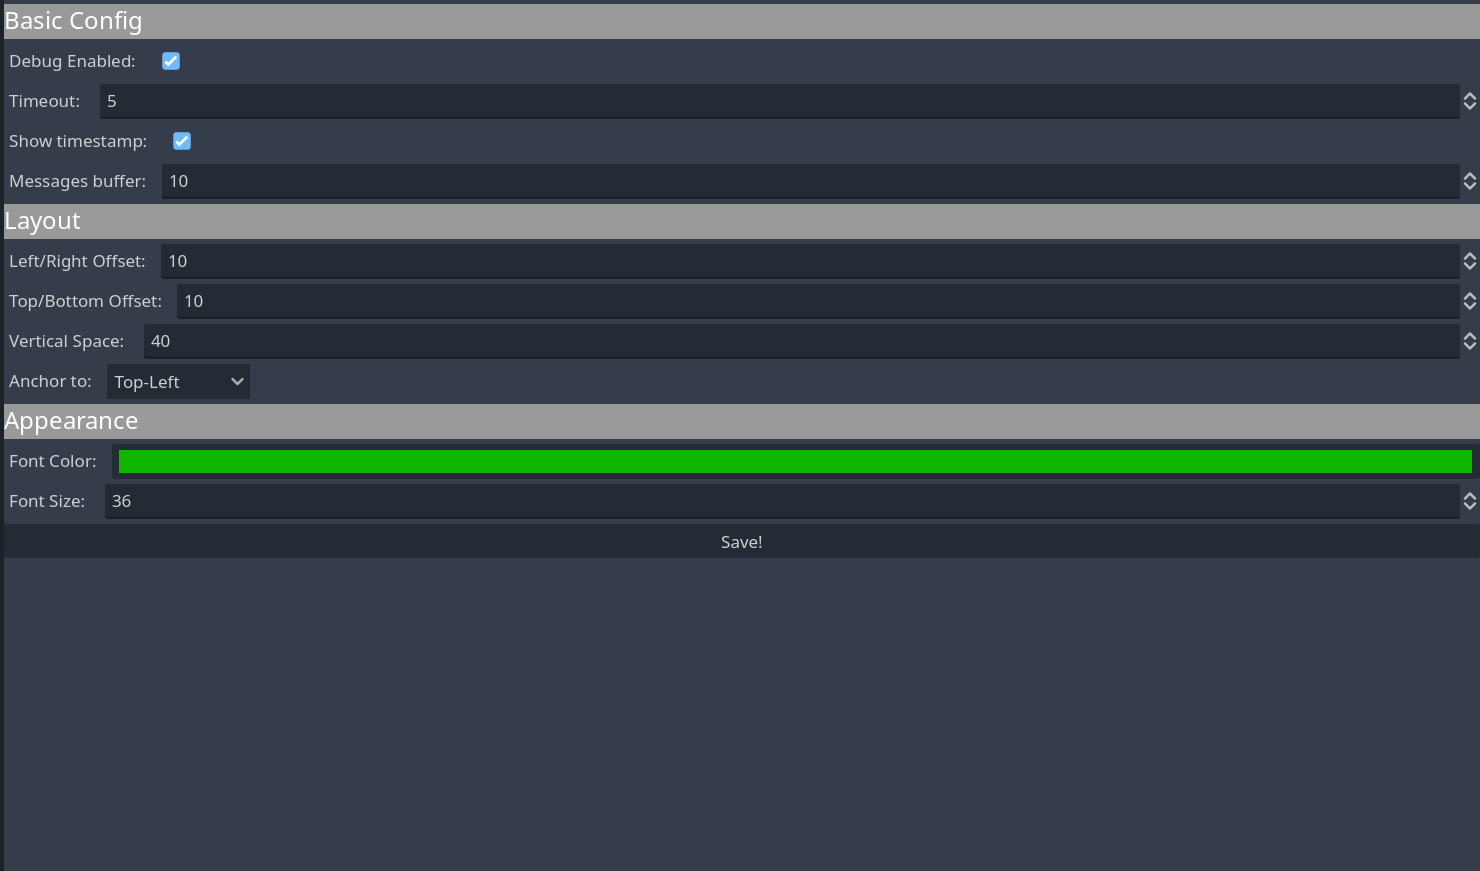
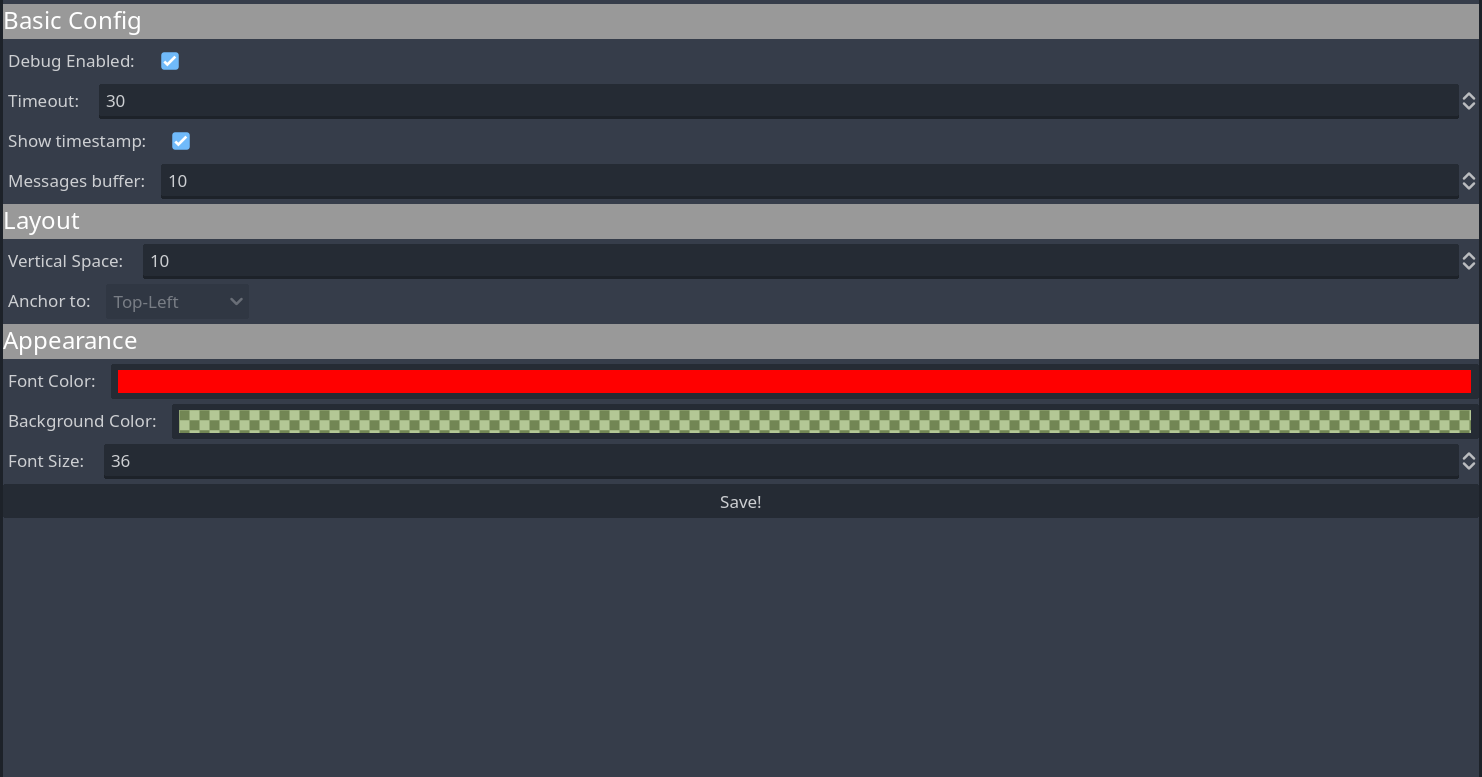
Added background layer behind labels and improved visibility

Changed region(s): [[0.0, 0.0, 1.0, 0.6178], [0.9946, 0.6486, 1.0, 1.0], [0.4662, 0.6178, 0.5284, 0.6486]]

diff --git a/README.md b/README.md
@@ -44,22 +44,19 @@ After that messages will be automatically deleted.
 ### Show Timestamp
 If enabled a current timestamp will appear next to the log message.
 
-### Left/Right Offset:
-Distance from the side of the screen. Being left or right depending on where the messages are being anchored set by the `Anchor to` property.
-
-### Top/Bottom Offset:
-Distance from the top or bottom of the screen. Being top or bottom depending on where the messages are being anchored set by the `Anchor to` property.
-
 ### Vertical Space:
 Vertical spacing between messages. Bigger fonts may need bigger vertical spacing.
 
 ### Font Color:
 Well, pretty self explanatory.
 
+### Background Color:
+Color for the background layer. So it is easier to see the logs on screen.
+
 ### Font Size:
 Well, pretty self explanatory.
 
-### Anchor:
+### Anchor (Disabled until I fix a bug):
 Where on the screen you would like the messages to be anchored to.
 
 * Top-Left
@@ -90,13 +87,14 @@ That is all!
 - [x] Be able to configure font color.
 - [x] Be able to configure font size.
 - [x] Be able to enale and disable logging messages to screen with checkbox.
+- [x] Add layer as a background of messages
 
 ### Roadmap
 Features that are in the roadmap of the project:
 
 *Ideally in order of priority, but nothing set in stone.*
 
-- [ ] Add layer as a background of messages
+- [ ] Fix Anchor bug
 - [ ] Add custom formatting of messages
 - [ ] Add options to save logging to disc
 
